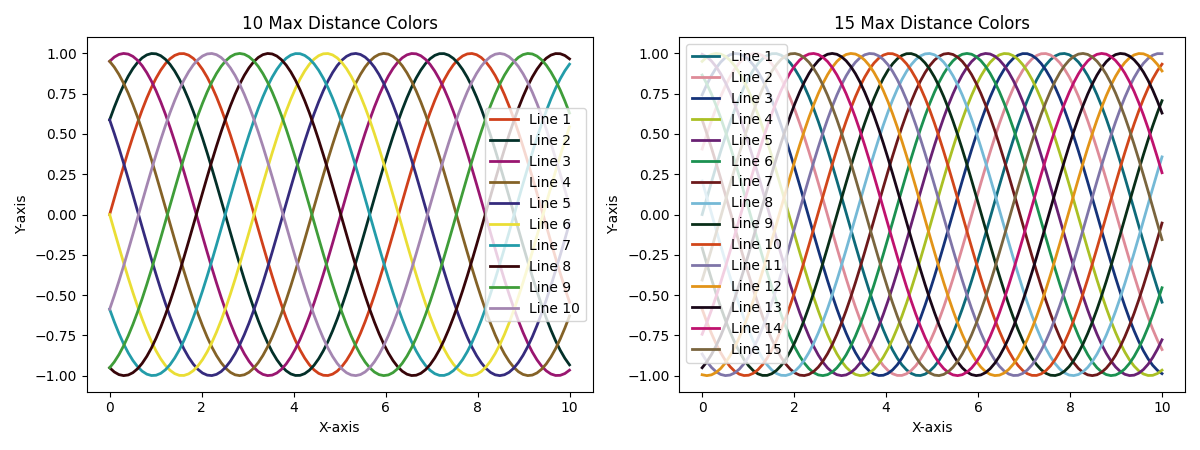
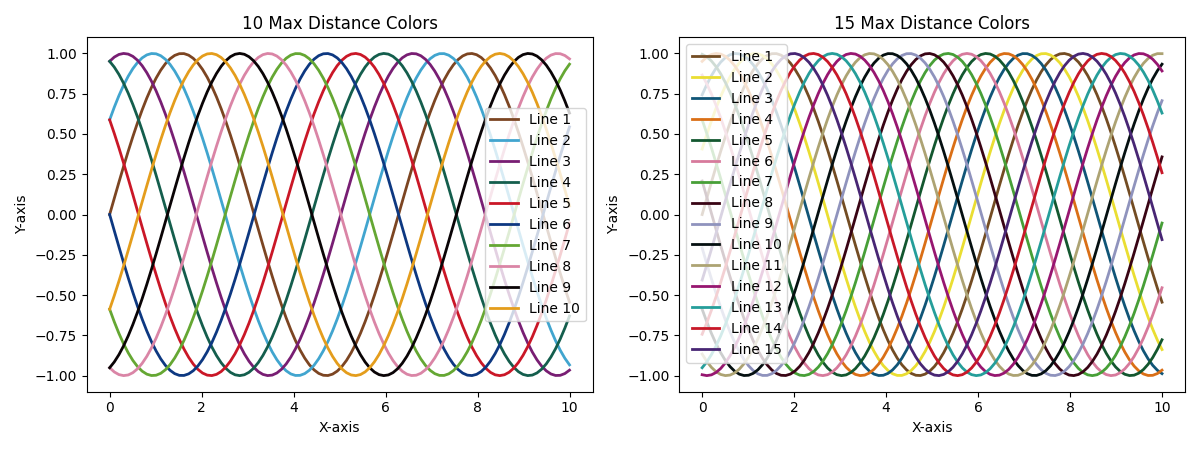
refactor(mdcolors): 优化颜色列表和多线程智能线程数
- 更新示例颜色列表，使用新配色方案
- 添加智能任务分配函数，提升多线程处理性能

Changed region(s): [[0.5858, 0.0933, 0.9867, 0.84], [0.0925, 0.0933, 0.4933, 0.84]]

diff --git a/mdcolors.py b/mdcolors.py
@@ -13,7 +13,6 @@ from concurrent.futures import ProcessPoolExecutor, as_completed
 import colour
 import open3d as o3d
 
-
 # Resize factor for brightness
 KL = 1.0
 # Maximize contrast between adjacent colors in the output list
@@ -300,7 +299,7 @@ def get_boundary_hull(bound_space='sRGB', workspace='CAM16LCD', res=11, show=Fal
         table = auto_convert(auto_convert(table, workspace, bound_space), bound_space, workspace)
     table[:, 0] *= KL
 
-    hull, scene = _o3d_build_bound(table, 1.5/res)
+    hull, scene = _o3d_build_bound(table, 1.5 / res)
 
     if show:
         validate_result(table, workspace, workspace, hull, show=True)
@@ -466,16 +465,16 @@ def sa_arrange(p):
     :return: np.array of arranged points
     """
     n = p.shape[0]
-    if n <= 1:
+    if n <= 2:
         return p.copy()
 
     initial_temp = 1
     cooling_rate = 0.99
-    min_temp = 1e-2/(n**2)
-    iterations_per_temp = min(max(1, int(n/5)), 100)
+    min_temp = 1e-2 / (n ** 2)
+    iterations_per_temp = min(max(1, int(n / 5)), 100)
 
     # Initialize the current permutation by greedy method
-    current_perm = p    # arrange_points(p)
+    current_perm = p  # arrange_points(p)
     current_min_dist = _compute_min_distance(current_perm)
 
     best_perm = current_perm.copy()
@@ -752,6 +751,17 @@ def single_run(nums, given_colors=None, color_space='sRGB', uniform_space='CAM16
     return hex_colors, real_dmin
 
 
+def smart_job_list(jobs, ref_workers):
+    last_group_jobs = jobs % ref_workers
+    if 0 < last_group_jobs < ref_workers / 2:
+        return smart_job_list(jobs, ref_workers - 1)
+
+    full_groups = jobs // ref_workers
+    job_list = [ref_workers] * full_groups + ([last_group_jobs] if last_group_jobs != 0 else [])
+
+    return job_list
+
+
 def multi_run(nums, given_colors=None,
               color_space='sRGB', uniform_space='CAM16LCD', quality="fast", num_runs=20, show=True, **kwargs):
     _color_space = color_space
@@ -765,7 +775,8 @@ def multi_run(nums, given_colors=None,
     best_hexs = None
     best_dmin = None
 
-    with ProcessPoolExecutor(max_workers=None) as executor:
+    workers = smart_job_list(num_runs, ref_workers=os.cpu_count() // 2 - 1)[0]
+    with ProcessPoolExecutor(max_workers=workers) as executor:
         futures = {
             executor.submit(
                 run, nums, given_colors, color_space, uniform_space, quality, seed=i, **kwargs

diff --git a/example/use_case.py b/example/use_case.py
@@ -10,12 +10,11 @@ x = np.linspace(0, 10, 100)
 # colors1 = ['#00b27e', '#f0fe01', '#04a5fd', '#be7900', '#fe03d2',
 #            '#6e0afe', '#fe0202', '#013300', '#590005', '#00003b']   # CAM16LCD
 
-colors1 = ['#d0401b', '#033029', '#991670', '#846227', '#352b7d',
-           '#eade35', '#239ca9', '#370509', '#3f9d39', '#a486b1']   # CAM16LCD CMYK
-colors2 = ['#0e6a79', '#de8b98', '#153379', '#aac024', '#692173',
-           '#1b9151', '#6d191b', '#75b9d6', '#092e18', '#d1461a',
-           '#7f75a8', '#e29418', '#190718', '#bf126e', '#7a653e']
-
+colors1 = ['#7c4522', '#41a5cf', '#781e73', '#145e4d', '#ca1727',
+           '#0d3881', '#65a733', '#da85a6', '#0a0406', '#e49d1c']  # CAM16LCD CMYK
+colors2 = ['#734c23', '#eade32', '#105577', '#da6f16', '#13572f',
+           '#d77a9c', '#479f37', '#390414', '#8f93bd', '#051011',
+           '#ada373', '#971670', '#259e9a', '#c81828', '#482674']
 
 # Create figure and subplots
 plt.figure(figsize=(12, 4.5))  # Set figure size

diff --git a/README.md b/README.md
@@ -133,7 +133,7 @@ if __name__ == '__main__':
                 new_row = [row[0], row[1], *row[2]]
                 writer.writerow(new_row)
 ```
-使用[result/Colors.xlsm](result/Colors.xlsm)文件可以得到如下所示的结果：
+使用[result/Colors.xlsm](result/Colors.xlsm)文件可以得到如下所示的渲染结果：
 ![batch_run_result.png](example/batch_run_result.png)
 
 ------------
